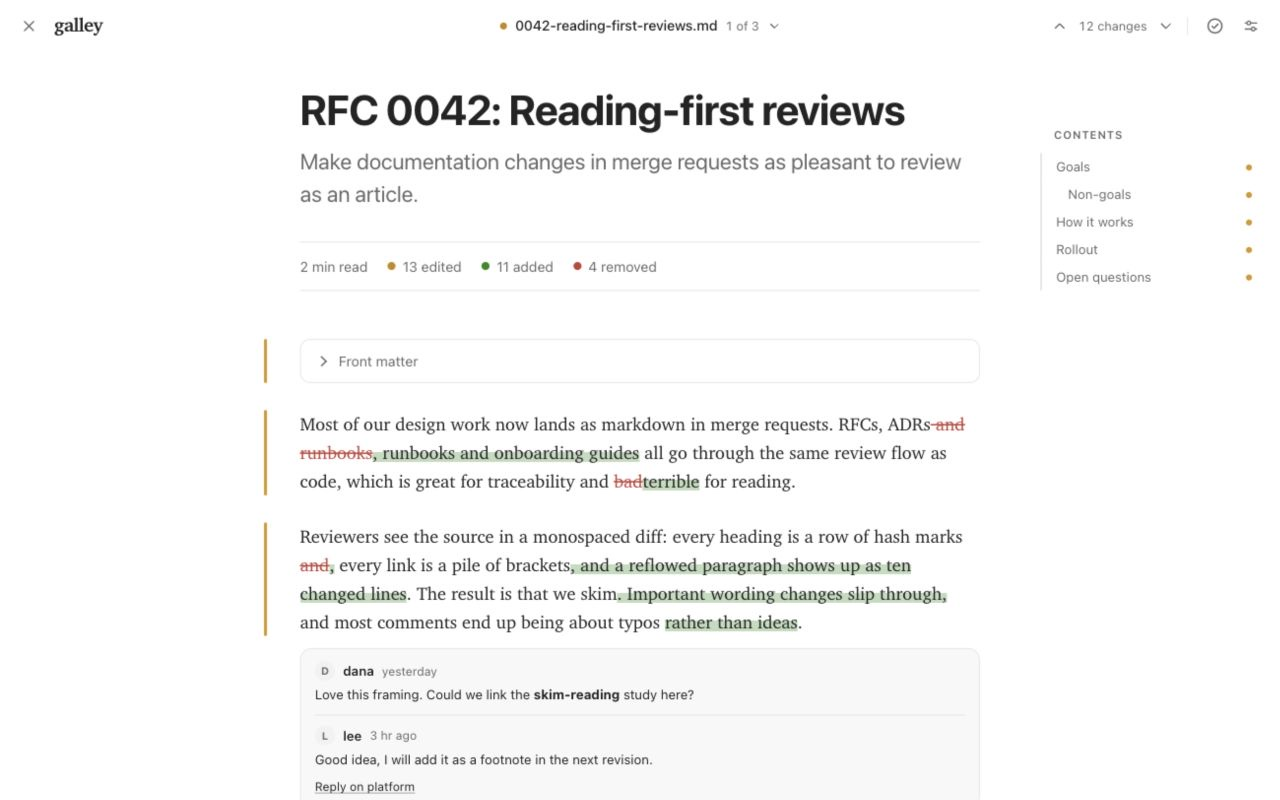
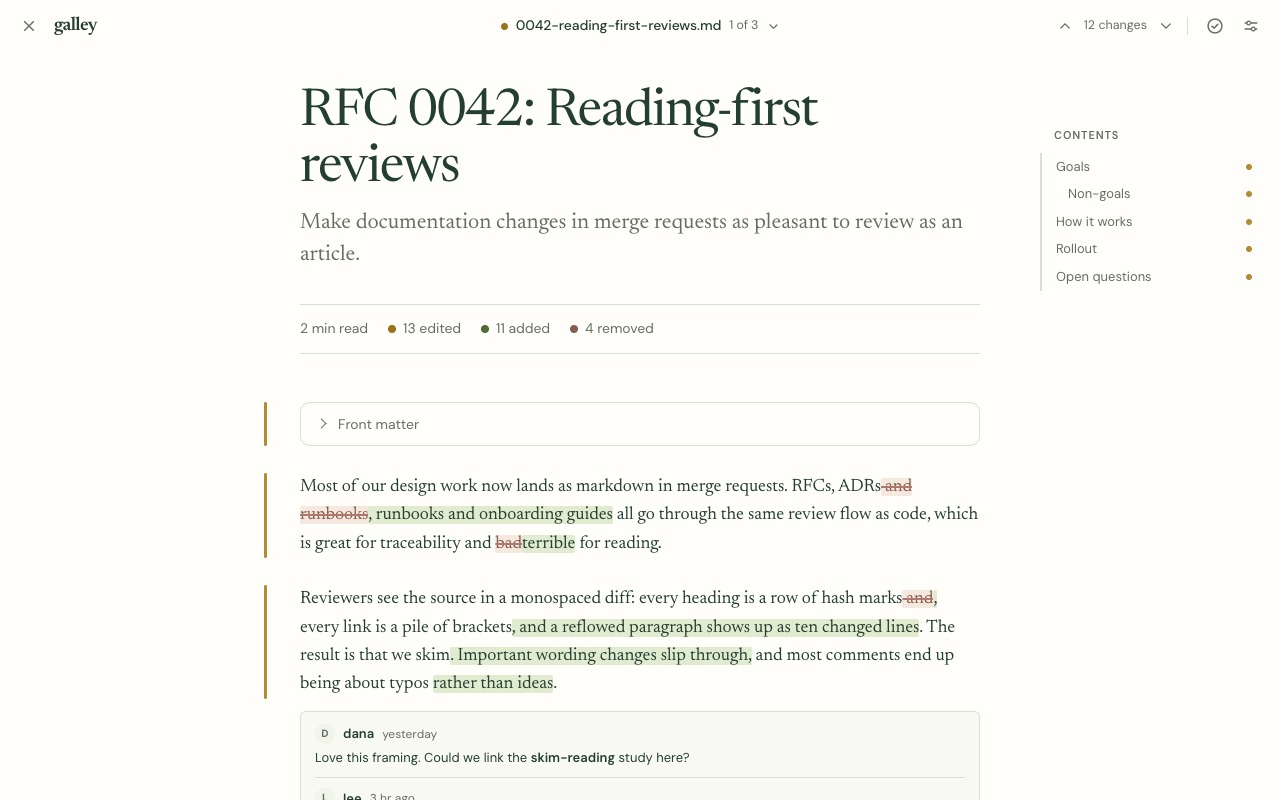
Match reader typography and highlights to Galley website

diff --git a/src/ui/reader.css b/src/ui/reader.css
@@ -5,30 +5,31 @@
 /* ------------------------------------------------------------------ palette */
 
 .mr-root {
-  --bg: #ffffff;
-  --fg: #242424;
-  --muted: #6b6b6b;
-  --soft: #f2f2f2;
-  --rule: #e6e6e6;
-  --code-bg: #f7f7f7;
-  --accent: #1a8917;
-  --add: #1a8917;
-  --add-bg: rgba(26, 137, 23, 0.14);
-  --add-wash: rgba(26, 137, 23, 0.06);
-  --mod: #c58a0c;
-  --del: #c4413a;
-  --del-bg: rgba(196, 65, 58, 0.09);
-  /* Change colours, tuned per theme: margin bars, the band under inserted words, code lines. */
-  --ins-band: rgba(26, 137, 23, 0.3);
-  --gutter-added: #3c9d39;
-  --gutter-modified: #d39a19;
-  --gutter-removed: #d0544b;
-  --code-add: rgba(26, 137, 23, 0.07);
-  --code-del: rgba(196, 65, 58, 0.07);
+  --bg: #fffefa;
+  --fg: #243e32;
+  --muted: #646e64;
+  --soft: #f1f4e9;
+  --rule: #d9dfd2;
+  --code-bg: #f6f7ef;
+  --accent: #506b38;
+  --add: #506b38;
+  --add-bg: #e1ebd0;
+  --add-wash: #f1f5e8;
+  --mod: #9c731b;
+  --del: #895d50;
+  --del-bg: #f5e9df;
+  --del-strike: #ac796d;
+  /* Soft word highlights, with stronger margin markers for scanning changes. */
+  --ins-band: #e1ebd0;
+  --gutter-added: #7c9c5a;
+  --gutter-modified: #b28b37;
+  --gutter-removed: #ac796d;
+  --code-add: #f0f5e7;
+  --code-del: #f8efe8;
   --shadow: 0 12px 32px rgba(0, 0, 0, 0.12), 0 2px 6px rgba(0, 0, 0, 0.06);
 
-  --serif: Charter, "Bitstream Charter", "Sitka Text", Cambria, Georgia, serif;
-  --sans: system-ui, -apple-system, BlinkMacSystemFont, "Segoe UI", Roboto, "Helvetica Neue", Arial, sans-serif;
+  --serif: "Galley Newsreader", Georgia, "Times New Roman", serif;
+  --sans: "Galley DM Sans", system-ui, -apple-system, BlinkMacSystemFont, "Segoe UI", Roboto, "Helvetica Neue", Arial, sans-serif;
   --mono: ui-monospace, SFMono-Regular, "SF Mono", Menlo, Consolas, "Liberation Mono", monospace;
   --rail-width: 220px;
   --body-font: var(--serif);
@@ -50,6 +51,7 @@
   line-height: 1.4;
   -webkit-font-smoothing: antialiased;
   -moz-osx-font-smoothing: grayscale;
+  font-optical-sizing: auto;
   text-rendering: optimizeLegibility;
   outline: none;
 }
@@ -71,9 +73,10 @@
   --add-bg: rgba(85, 122, 44, 0.16);
   --add-wash: rgba(85, 122, 44, 0.08);
   --mod: #a8740c;
-  --del: #a8432e;
+  --del: #945e47;
+  --del-strike: #aa7760;
   --del-bg: rgba(168, 67, 46, 0.1);
-  --ins-band: rgba(85, 122, 44, 0.3);
+  --ins-band: #e4e7c9;
   --gutter-added: #6e9045;
   --gutter-modified: #bf8a22;
   --gutter-removed: #b9604a;
@@ -82,24 +85,25 @@
 }
 
 .mr-root.is-dark {
-  --bg: #121212;
-  --fg: #e6e6e6;
-  --muted: #a0a0a0;
-  --soft: #222222;
-  --rule: #2e2e2e;
-  --code-bg: #1b1b1b;
-  --accent: #3fb950;
-  --add: #3fb950;
+  --bg: #19231e;
+  --fg: #e6ebdd;
+  --muted: #aab6a7;
+  --soft: #253128;
+  --rule: #354338;
+  --code-bg: #202b24;
+  --accent: #b5d291;
+  --add: #b5d291;
   --add-bg: rgba(63, 185, 80, 0.24);
   --add-wash: rgba(63, 185, 80, 0.08);
   --mod: #e3b341;
-  --del: #ff7b72;
+  --del: #dfada0;
+  --del-strike: #c49080;
   --del-bg: rgba(255, 123, 114, 0.13);
   /* On a dark page colour needs more strength to read at the same weight. */
-  --ins-band: rgba(63, 185, 80, 0.46);
-  --gutter-added: #3fb950;
+  --ins-band: #384c2f;
+  --gutter-added: #9bb97c;
   --gutter-modified: #e3b341;
-  --gutter-removed: #ff7b72;
+  --gutter-removed: #c49080;
   --code-add: rgba(63, 185, 80, 0.11);
   --code-del: rgba(255, 123, 114, 0.1);
   --shadow: 0 12px 32px rgba(0, 0, 0, 0.55);
@@ -243,17 +247,17 @@
 .mr-content > h1.mr-lead {
   margin: 0;
   color: var(--fg);
-  font-family: var(--sans);
-  font-size: 42px;
-  font-weight: 700;
-  line-height: 1.18;
-  letter-spacing: -0.022em;
+  font-family: var(--body-font);
+  font-size: 52px;
+  font-weight: 400;
+  line-height: 1.08;
+  letter-spacing: -0.028em;
 }
 
 .mr-subtitle {
   margin: 14px 0 0;
   color: var(--muted);
-  font-family: var(--sans);
+  font-family: var(--body-font);
   font-size: 22px;
   line-height: 1.45;
 }
@@ -344,29 +348,30 @@
 .mr-content :where(h1, h2, h3, h4, h5, h6) {
   margin: 1.95em 0 0;
   color: var(--fg);
-  font-family: var(--sans);
-  font-weight: 700;
-  letter-spacing: -0.016em;
+  font-family: var(--body-font);
+  font-weight: 400;
+  letter-spacing: -0.02em;
   scroll-margin-top: 84px;
 }
 
 .mr-content h1 {
-  font-size: 1.6em;
+  font-size: 1.9em;
   line-height: 1.22;
 }
 
 .mr-content h2 {
-  font-size: 1.36em;
+  font-size: 1.6em;
   line-height: 1.28;
 }
 
 .mr-content h3 {
-  font-size: 1.16em;
+  font-size: 1.3em;
   line-height: 1.32;
 }
 
 .mr-content :where(h4, h5, h6) {
-  font-size: 1em;
+  font-size: 1.1em;
+  font-weight: 600;
   line-height: 1.4;
 }
 
@@ -380,7 +385,7 @@
 }
 
 .mr-content strong {
-  font-weight: 700;
+  font-weight: 600;
 }
 
 .mr-content :where(ul, ol) {
@@ -414,7 +419,7 @@
 
 .mr-content blockquote {
   padding-left: 1.15em;
-  border-left: 3px solid var(--fg);
+  border-left: 2px solid var(--gutter-added);
   font-style: italic;
 }
 
@@ -659,20 +664,24 @@
   text-decoration: none;
 }
 
-/* Inserted words carry a soft band through the lower half of the letters. It stays inside its own
-   line box, so long insertions never merge into slabs or touch the line above. */
+/* Paper-like highlights follow each wrapped fragment without changing word spacing. */
 .mode-changes .mr-content ins.mr-ins {
-  background-image: linear-gradient(transparent 46%, var(--ins-band) 46%, var(--ins-band) 94%, transparent 94%);
+  background: var(--ins-band);
+  border-radius: 2px;
   -webkit-box-decoration-break: clone;
   box-decoration-break: clone;
 }
 
-/* Deleted words are struck through and quieter, without a fill. */
+/* Warm deletion highlights retain the strike-through as a second change cue. */
 .mode-changes .mr-content del.mr-del {
   color: var(--del);
+  background: var(--del-bg);
+  border-radius: 2px;
+  -webkit-box-decoration-break: clone;
+  box-decoration-break: clone;
   text-decoration: line-through;
   text-decoration-thickness: 1.5px;
-  text-decoration-color: var(--del);
+  text-decoration-color: var(--del-strike);
 }
 
 /* Code wraps instead of scrolling sideways: every line is a block, and wrapped parts continue under
@@ -1001,7 +1010,7 @@
 
   .mr-title,
   .mr-content > h1.mr-lead {
-    font-size: 32px;
+    font-size: 38px;
   }
 
   .mr-subtitle {
@@ -1975,8 +1984,8 @@
 .mr-file-threads .mr-thread {
   padding: 12px 14px;
   border: 1px solid var(--rule);
-  border-radius: 12px;
-  background: var(--bg);
+  border-radius: 6px;
+  background: var(--soft);
 }
 
 .mr-content .mr-thread {

diff --git a/src/ui/fonts.test.ts b/src/ui/fonts.test.ts
@@ -1,0 +1,41 @@
+import { expect, it, vi } from 'vitest';
+import { loadReaderFonts } from './fonts.ts';
+
+vi.mock('./fonts/dm-sans-latin.woff2', () => ({ default: new Uint8Array([1]) }));
+vi.mock('./fonts/newsreader-italic-latin.woff2', () => ({ default: new Uint8Array([2]) }));
+vi.mock('./fonts/newsreader-latin.woff2', () => ({ default: new Uint8Array([3]) }));
+
+it('loads locally bundled normal and italic faces once when the reader reopens', async () => {
+  const doc = document.implementation.createHTMLDocument();
+  const fonts = { add: vi.fn(), delete: vi.fn() };
+  Object.defineProperty(doc, 'fonts', { value: fonts });
+  const load = vi.fn().mockResolvedValue(undefined);
+  const construct = vi.fn();
+  vi.stubGlobal('FontFace', class {
+    load = load;
+    constructor(...args: unknown[]) { construct(...args); }
+  });
+  loadReaderFonts(doc);
+  loadReaderFonts(doc);
+  await Promise.resolve();
+  expect(construct).toHaveBeenCalledTimes(3);
+  expect(construct).toHaveBeenCalledWith('Galley Newsreader', expect.any(Uint8Array), expect.objectContaining({ style: 'italic' }));
+  expect(fonts.add).toHaveBeenCalledTimes(3);
+  expect(load).toHaveBeenCalledTimes(3);
+  expect(fonts.delete).not.toHaveBeenCalled();
+});
+
+it('keeps system fallbacks available when decoding fonts fails or the font API is unavailable', async () => {
+  const doc = document.implementation.createHTMLDocument();
+  const fonts = { add: vi.fn(), delete: vi.fn() };
+  Object.defineProperty(doc, 'fonts', { value: fonts });
+  vi.stubGlobal('FontFace', undefined);
+  expect(() => loadReaderFonts(doc)).not.toThrow();
+  vi.stubGlobal('FontFace', class {
+    load = () => Promise.reject(new Error('Font unavailable'));
+  });
+  loadReaderFonts(document.implementation.createHTMLDocument());
+  loadReaderFonts(doc);
+  await Promise.resolve();
+  expect(fonts.delete).toHaveBeenCalledTimes(3);
+});

diff --git a/src/ui/fonts.ts b/src/ui/fonts.ts
@@ -1,0 +1,23 @@
+import sans from './fonts/dm-sans-latin.woff2';
+import italic from './fonts/newsreader-italic-latin.woff2';
+import serif from './fonts/newsreader-latin.woff2';
+
+const registered = new WeakSet<Document>();
+
+/** Register bundled fonts on the document: shadow-root @font-face rules are not portable.
+ * Binary sources avoid network requests and work even under the host page's font-src policy.
+ * Names are scoped to Galley so a page's own Newsreader font cannot replace ours. */
+export function loadReaderFonts(doc: Document): void {
+  if (typeof FontFace === 'undefined' || !doc.fonts || registered.has(doc)) return;
+  registered.add(doc);
+  for (const [family, source, style, weight] of [
+    ['Galley Newsreader', serif, 'normal', '400 600'],
+    ['Galley Newsreader', italic, 'italic', '400 600'],
+    ['Galley DM Sans', sans, 'normal', '400 700'],
+  ] as const) {
+    const face = new FontFace(family, source, { style, weight, display: 'swap' });
+    doc.fonts.add(face);
+    // Keep system fallbacks usable if a browser cannot decode a bundled font.
+    void face.load().catch(() => doc.fonts.delete(face));
+  }
+}

diff --git a/src/ui/reader.ts b/src/ui/reader.ts
@@ -5,6 +5,7 @@ import { renderDiagrams } from './diagrams.ts';
 import { viewedKey, loadViewed, saveViewed } from './viewed.ts';
 import { icons } from './icons.ts';
 import css from './reader.css';
+import { loadReaderFonts } from './fonts.ts';
 import { loadImage, renderDocument, renderSnippet, type RenderedBlock, type RenderedDoc } from './render.ts';
 import { filterDocument, paragraphTarget, selectionTarget } from './reading.ts';
 import { DEFAULT_SETTINGS, TEXT_SIZES, loadSettings, saveSettings, type Settings } from './settings.ts';
@@ -240,6 +241,7 @@ class Reader {
   private readonly prevFocus: Element | null;
 
   constructor(private readonly onClose?: () => void) {
+    loadReaderFonts(document);
     this.host.id = __GALLEY_DEV__ ? 'galley-reader-dev' : 'galley-reader';
     // biome-ignore lint/plugin: the bundled stylesheet and a fixed template; no document content.
     this.shadow.innerHTML = `<style>${css}</style>${TEMPLATE}`;

diff --git a/src/env.d.ts b/src/env.d.ts
@@ -15,3 +15,9 @@ declare const __GALLEY_DEV__: boolean;
 
 /** Dev build only: the pages the content script runs on (from src/manifest.json). */
 declare const __GALLEY_MATCHES__: string[];
+
+// Fonts ship as binary data, so loading them never depends on the host page's CSP or a remote URL.
+declare module '*.woff2' {
+  const bytes: Uint8Array<ArrayBuffer>;
+  export default bytes;
+}

diff --git a/site/README.md b/site/README.md
@@ -1,6 +1,6 @@
 # Galley website
 
-A static, responsive product website. Newsreader headlines and DM Sans interface text are self-hosted alongside the site's assets, with no analytics, remote font requests, or client-side framework. Their SIL Open Font Licenses are included in `site/fonts/`. The real reader demo and a privacy page generated from `PRIVACY.md` ship alongside it.
+A static, responsive product website. Newsreader headlines and DM Sans interface text are self-hosted alongside the site's assets, with no analytics, remote font requests, or client-side framework. Their SIL Open Font Licenses are included in `src/ui/fonts/` (shared with the extension). The real reader demo and a privacy page generated from `PRIVACY.md` ship alongside it.
 
 ## Preview locally
 

diff --git a/README.md b/README.md
@@ -36,7 +36,7 @@ Reading fetches files and threads from your code host; posting sends your commen
 
 ![The real Galley reader: document changes and the team's review conversation in context.](store/assets/screenshot-1-changes.jpg)
 
-Light, sepia and dark themes, serif or sans text, adjustable type size and a clean reading mode let you make the reader comfortable for you.
+Newsreader brings the website’s reading typography into the extension, with DM Sans for the controls and soft sage and rose highlights for changes. Both fonts ship locally with Galley. Light, sepia and dark themes, serif or sans text, adjustable type size and a clean reading mode let you make the reader comfortable for you.
 
 ## Try it
 
